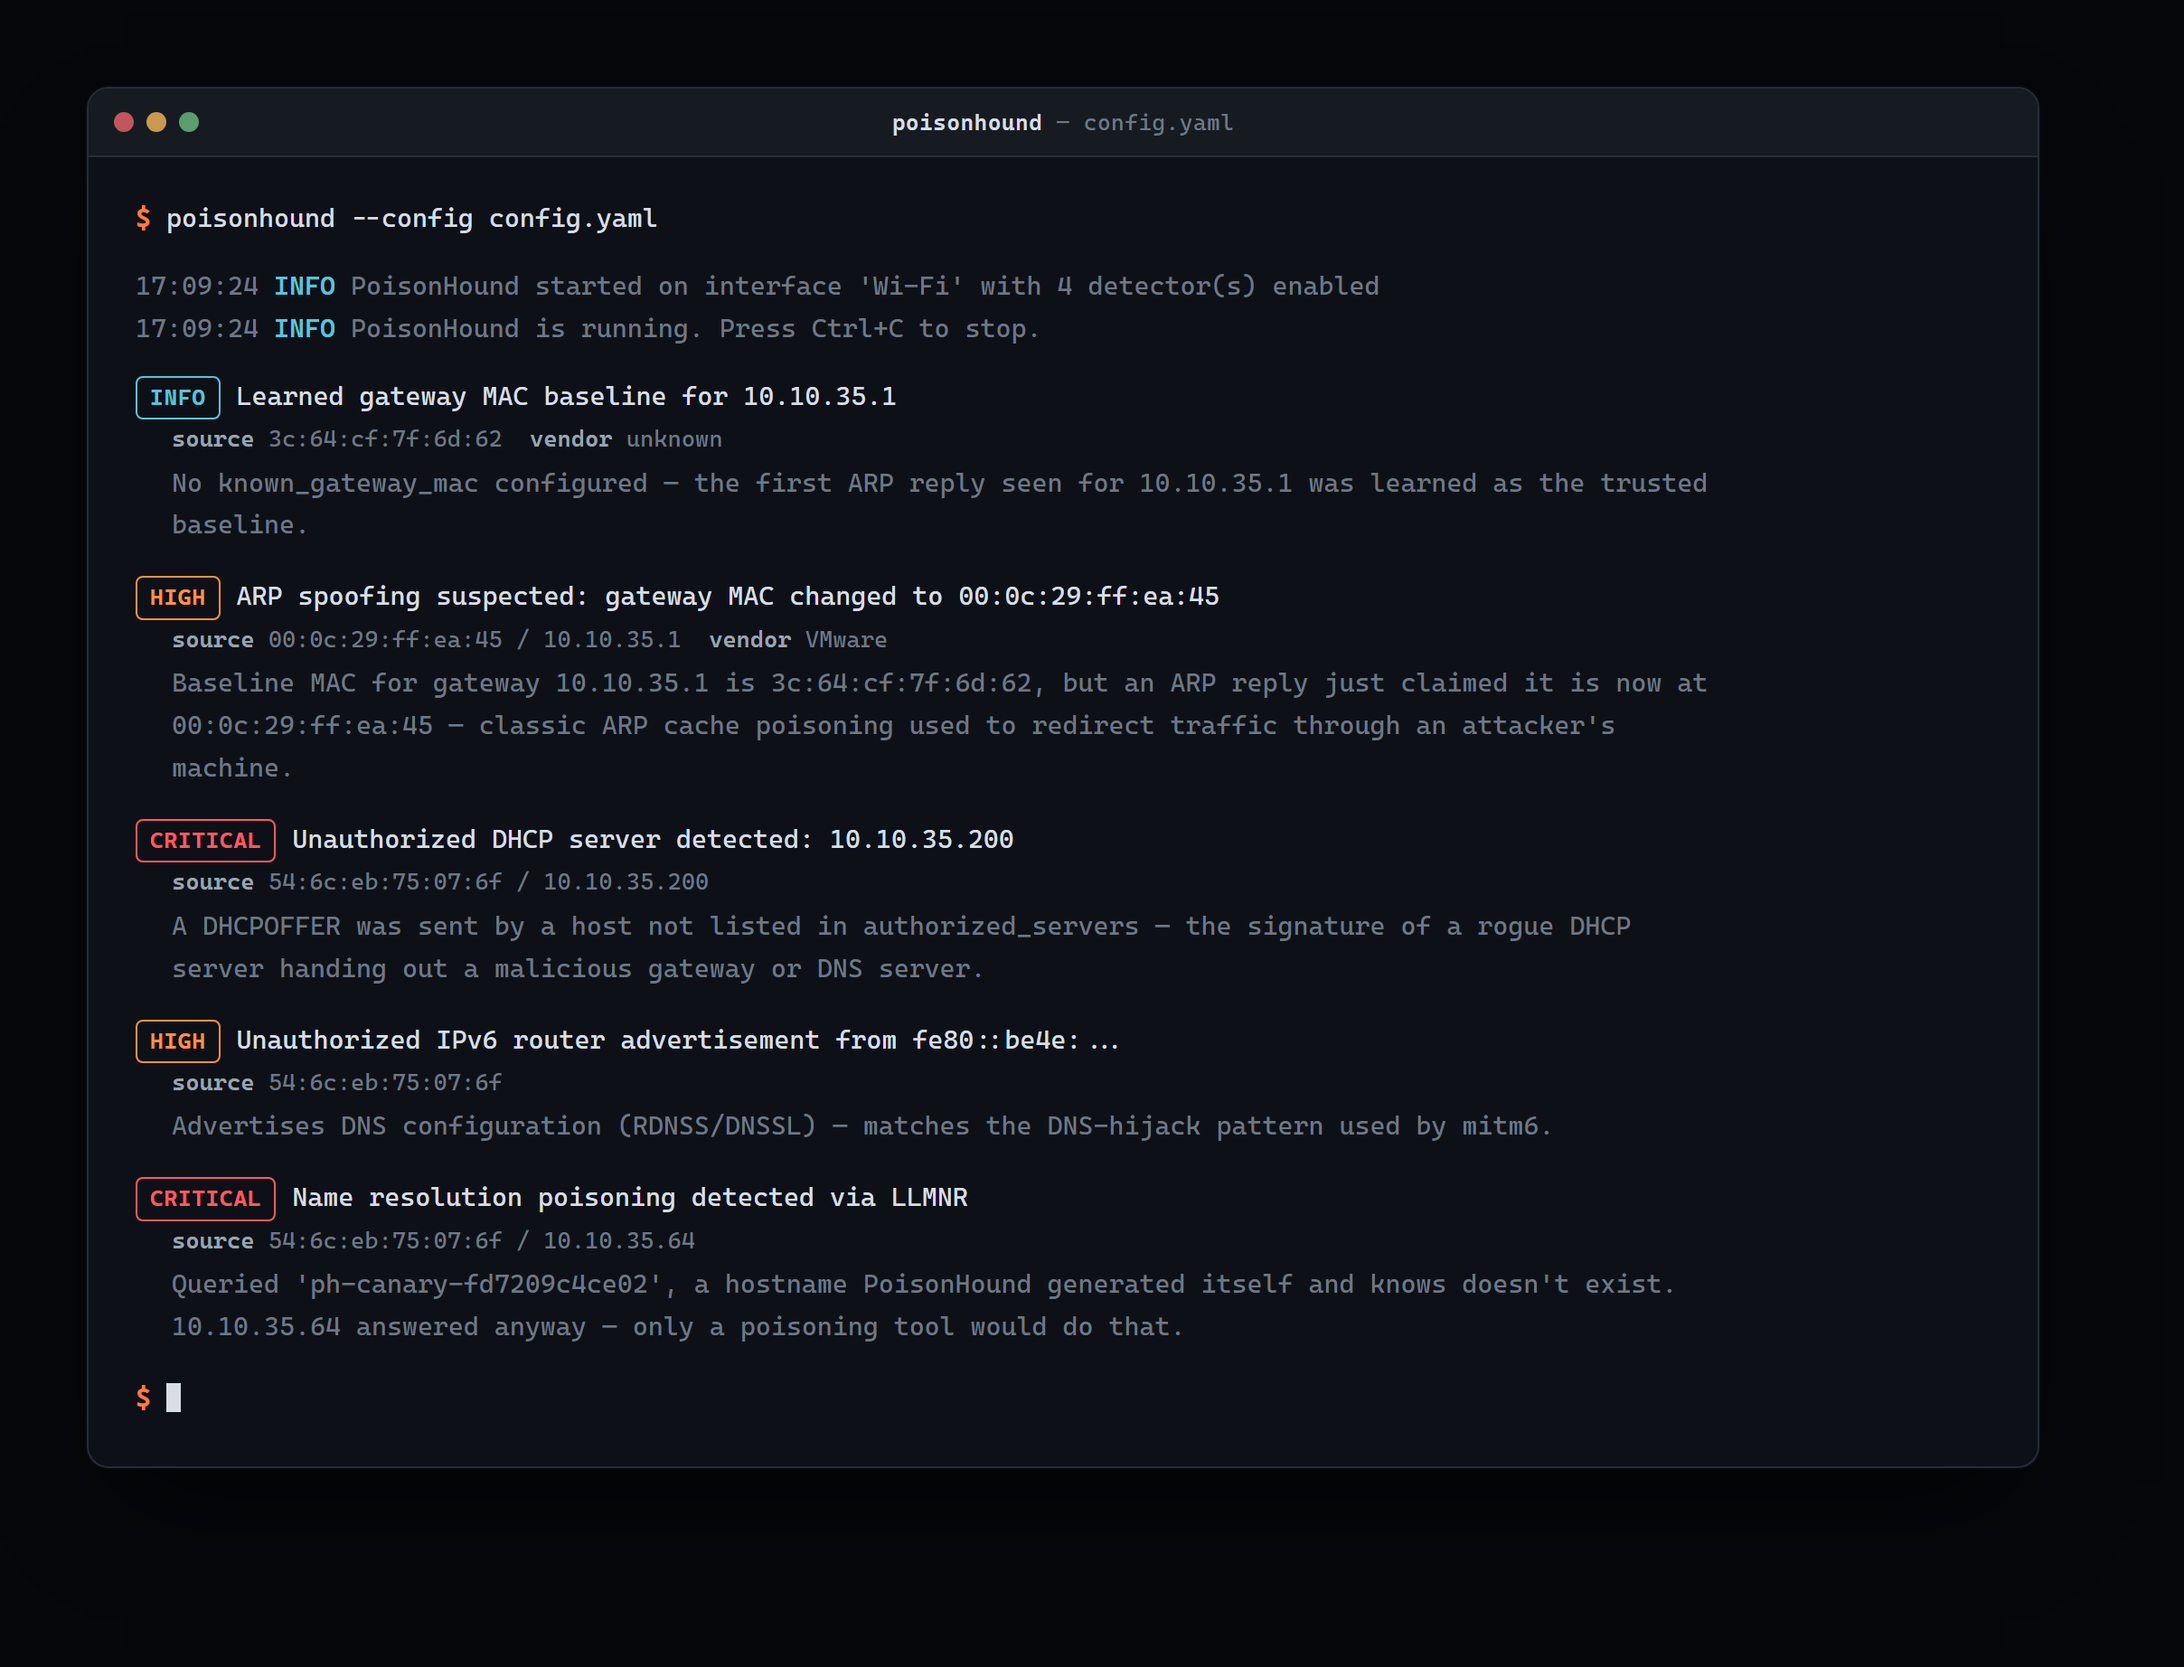
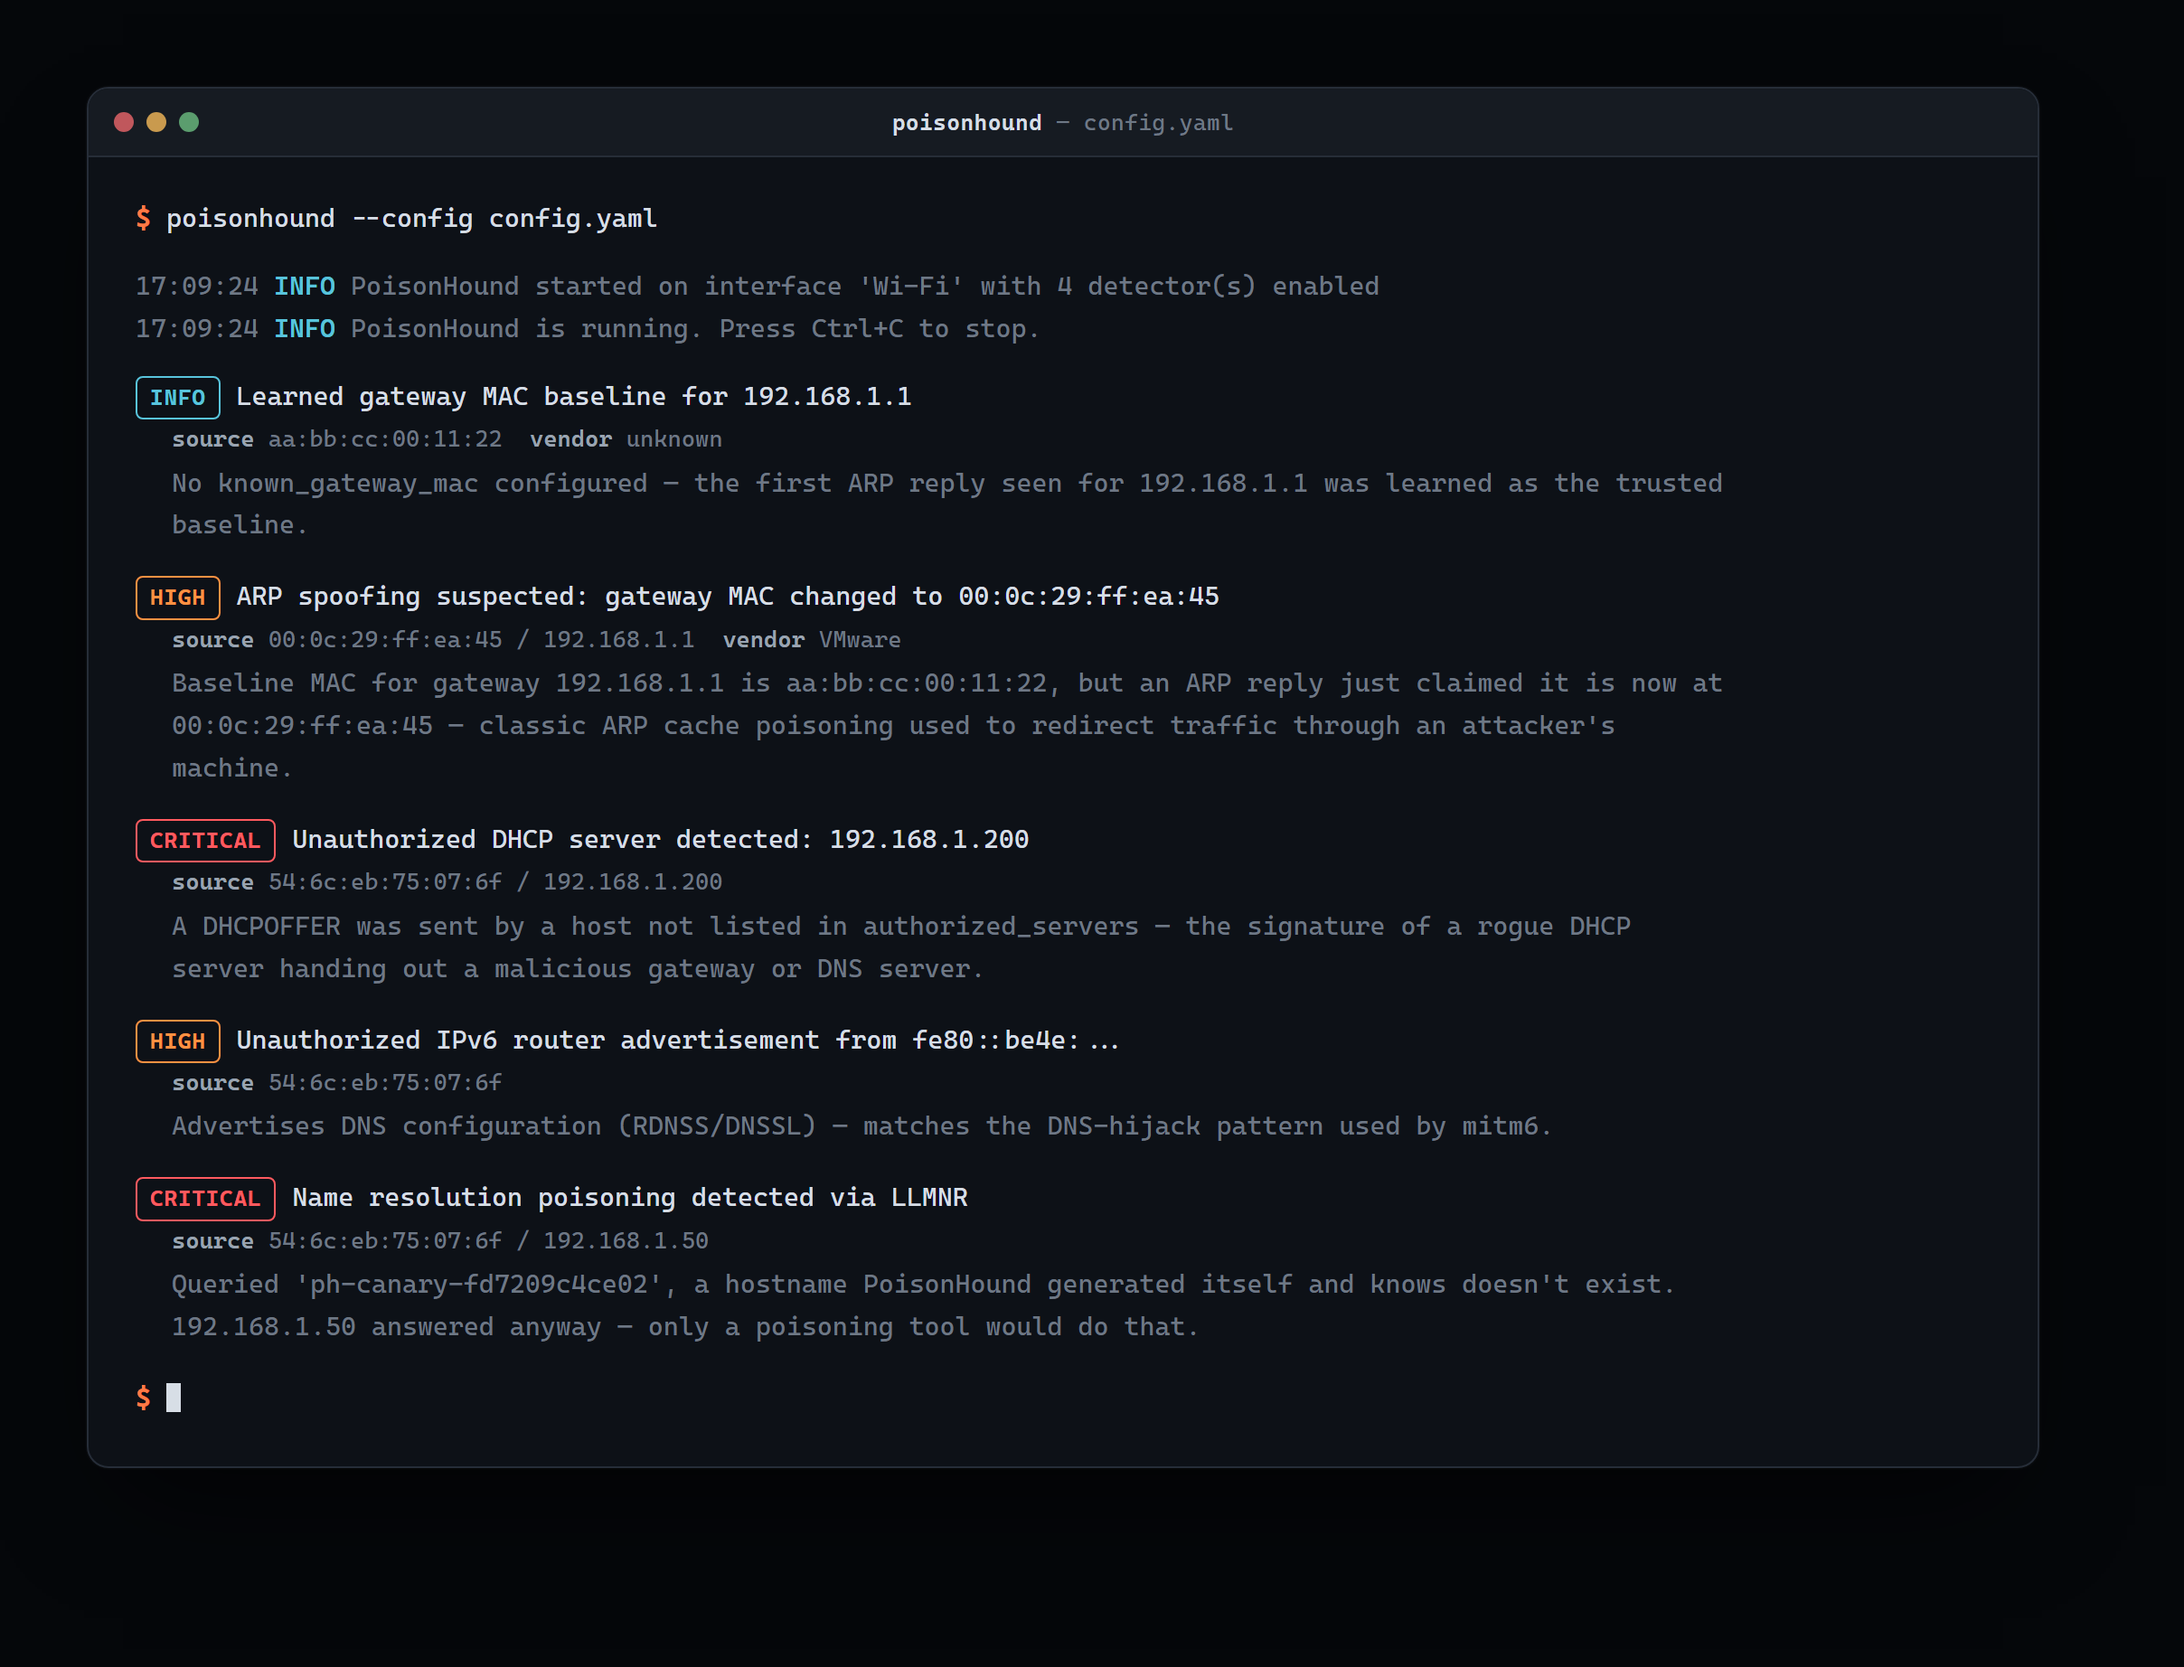
Redact real IP addresses in the README screenshot

diff --git a/README.md b/README.md
@@ -10,7 +10,7 @@ in the alert to act on it immediately.
 
 ![PoisonHound catching ARP spoofing, a rogue DHCP server, mitm6, and an LLMNR canary hit in one session](docs/screenshot.png)
 
-*Captured from a real test session: `arpspoof`, a hand-crafted rogue DHCPOFFER, `mitm6`, and `Responder` run against a live PoisonHound instance - not simulated output.*
+*Captured from a real test session: `arpspoof`, a hand-crafted rogue DHCPOFFER, `mitm6`, and `Responder` run against a live PoisonHound instance - not simulated output. IP addresses have been redacted to generic examples.*
 
 It detects:
 
